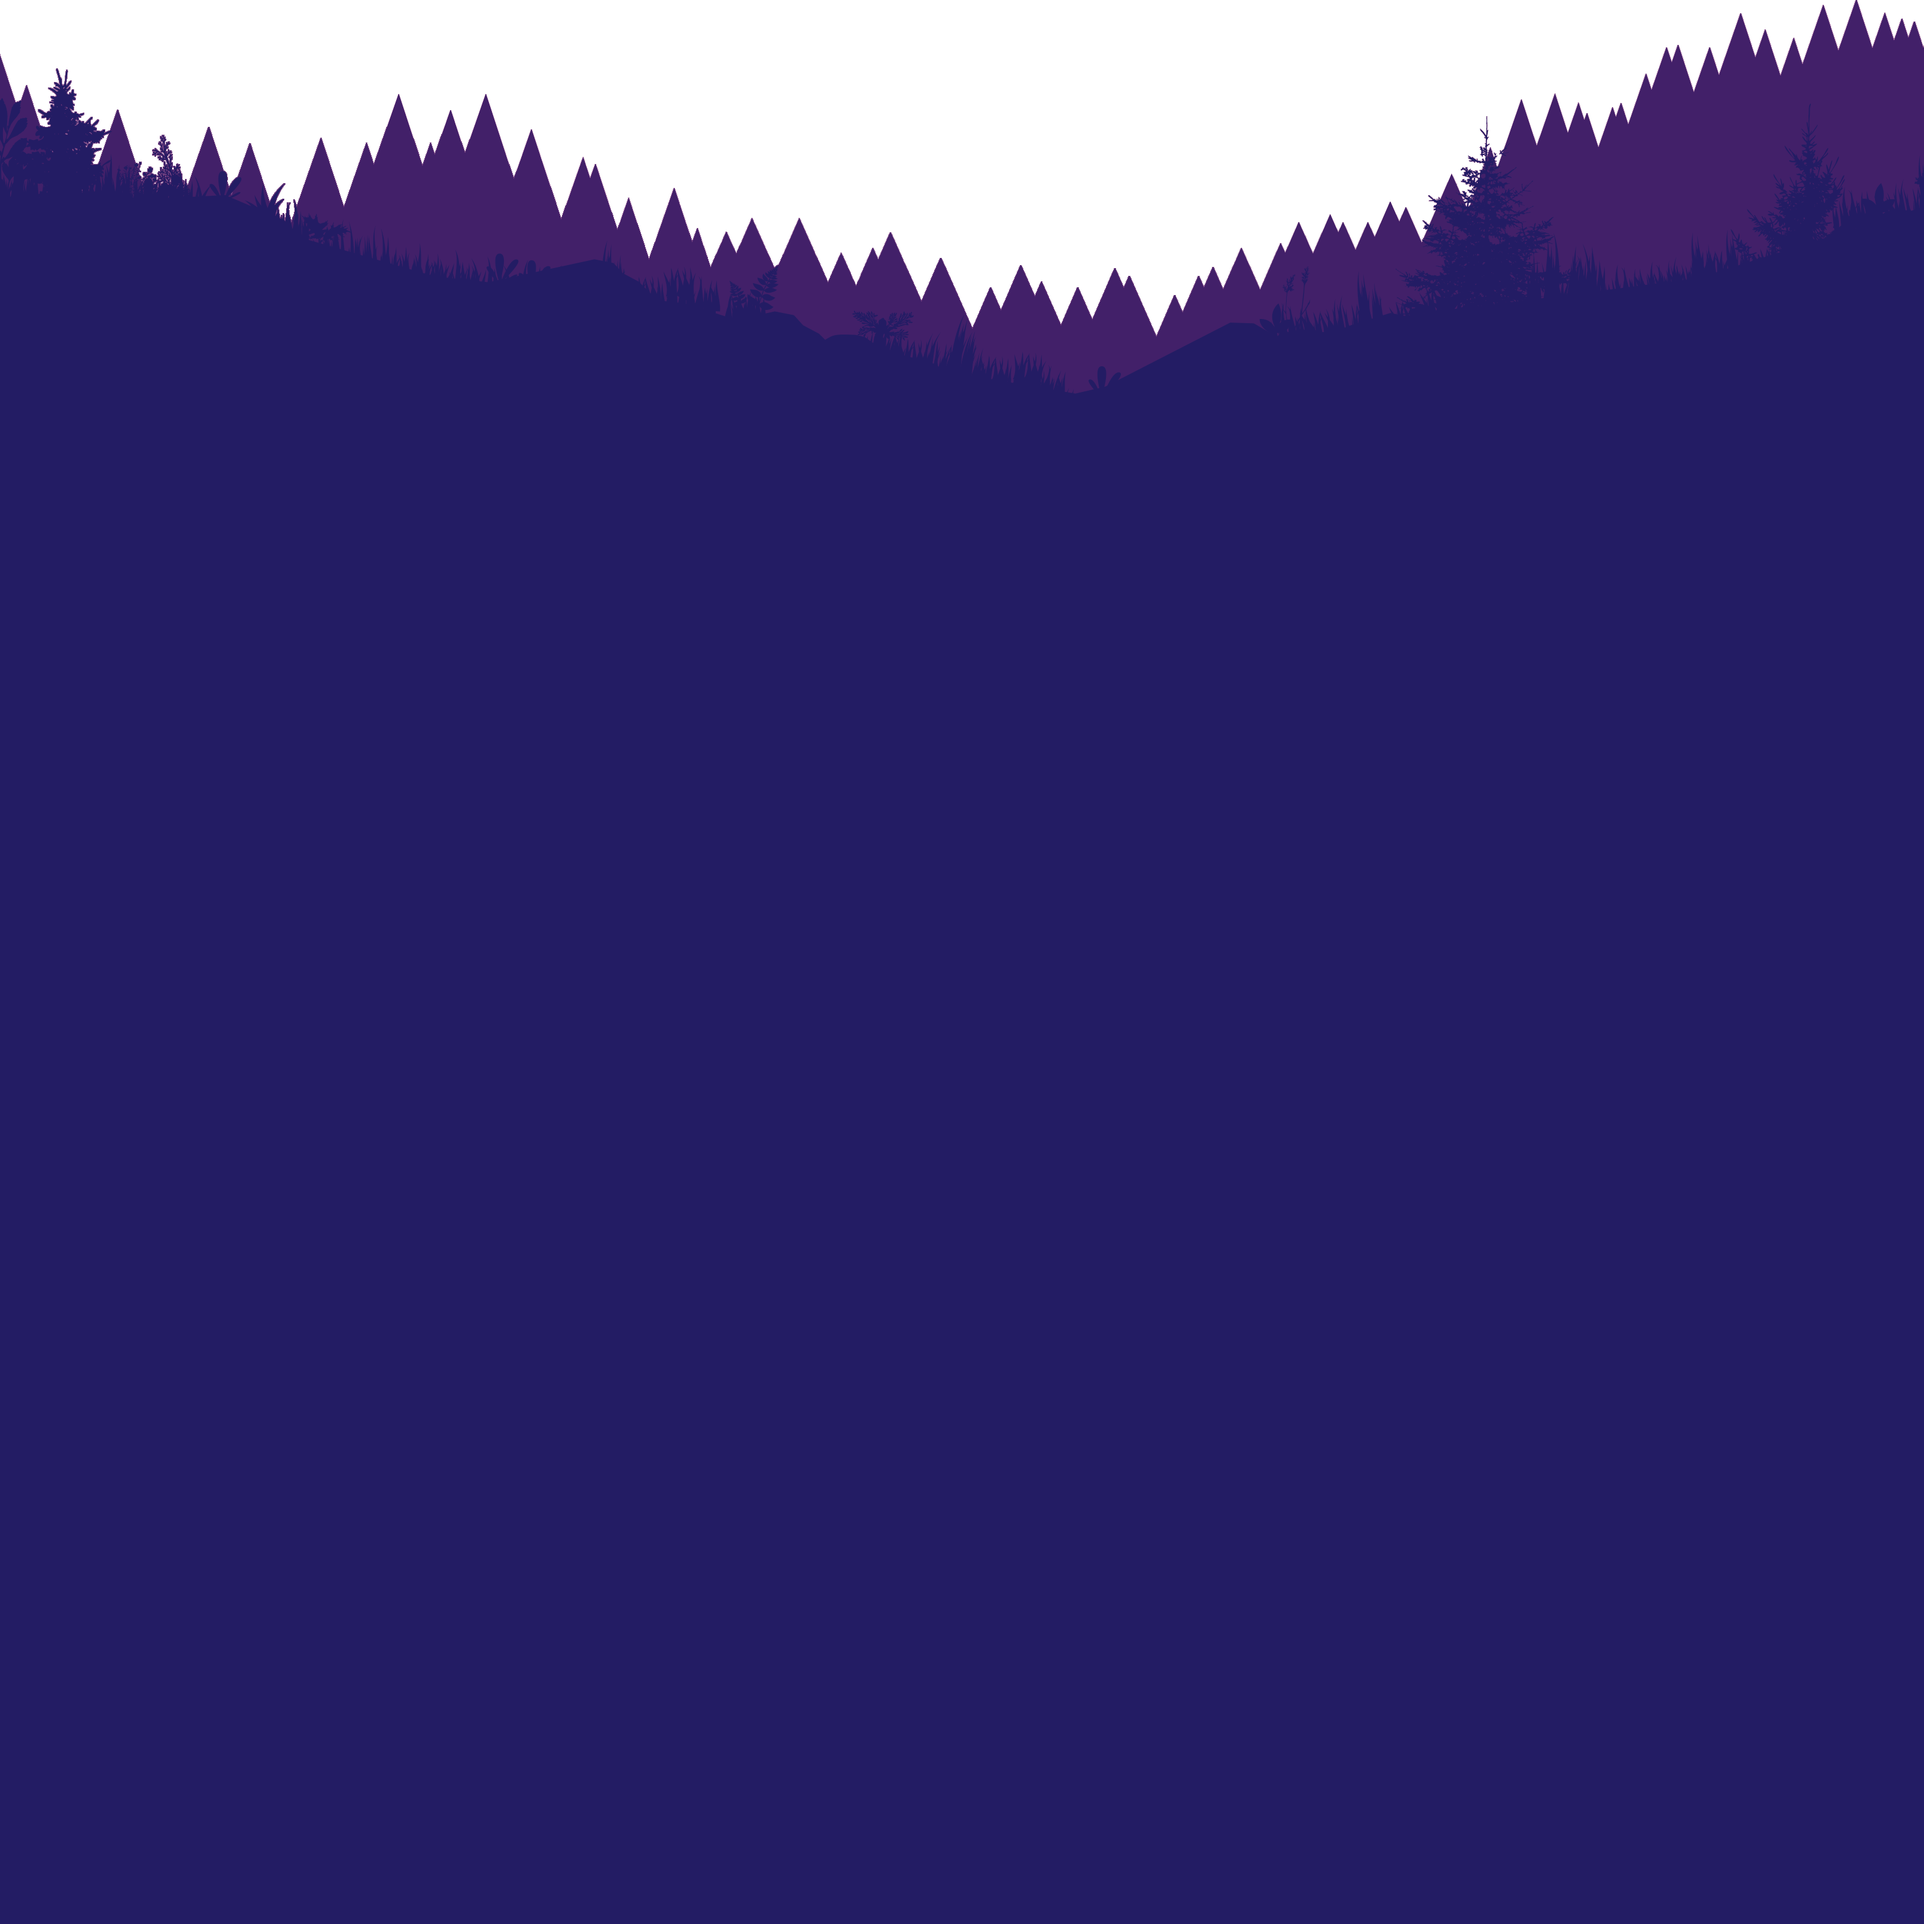
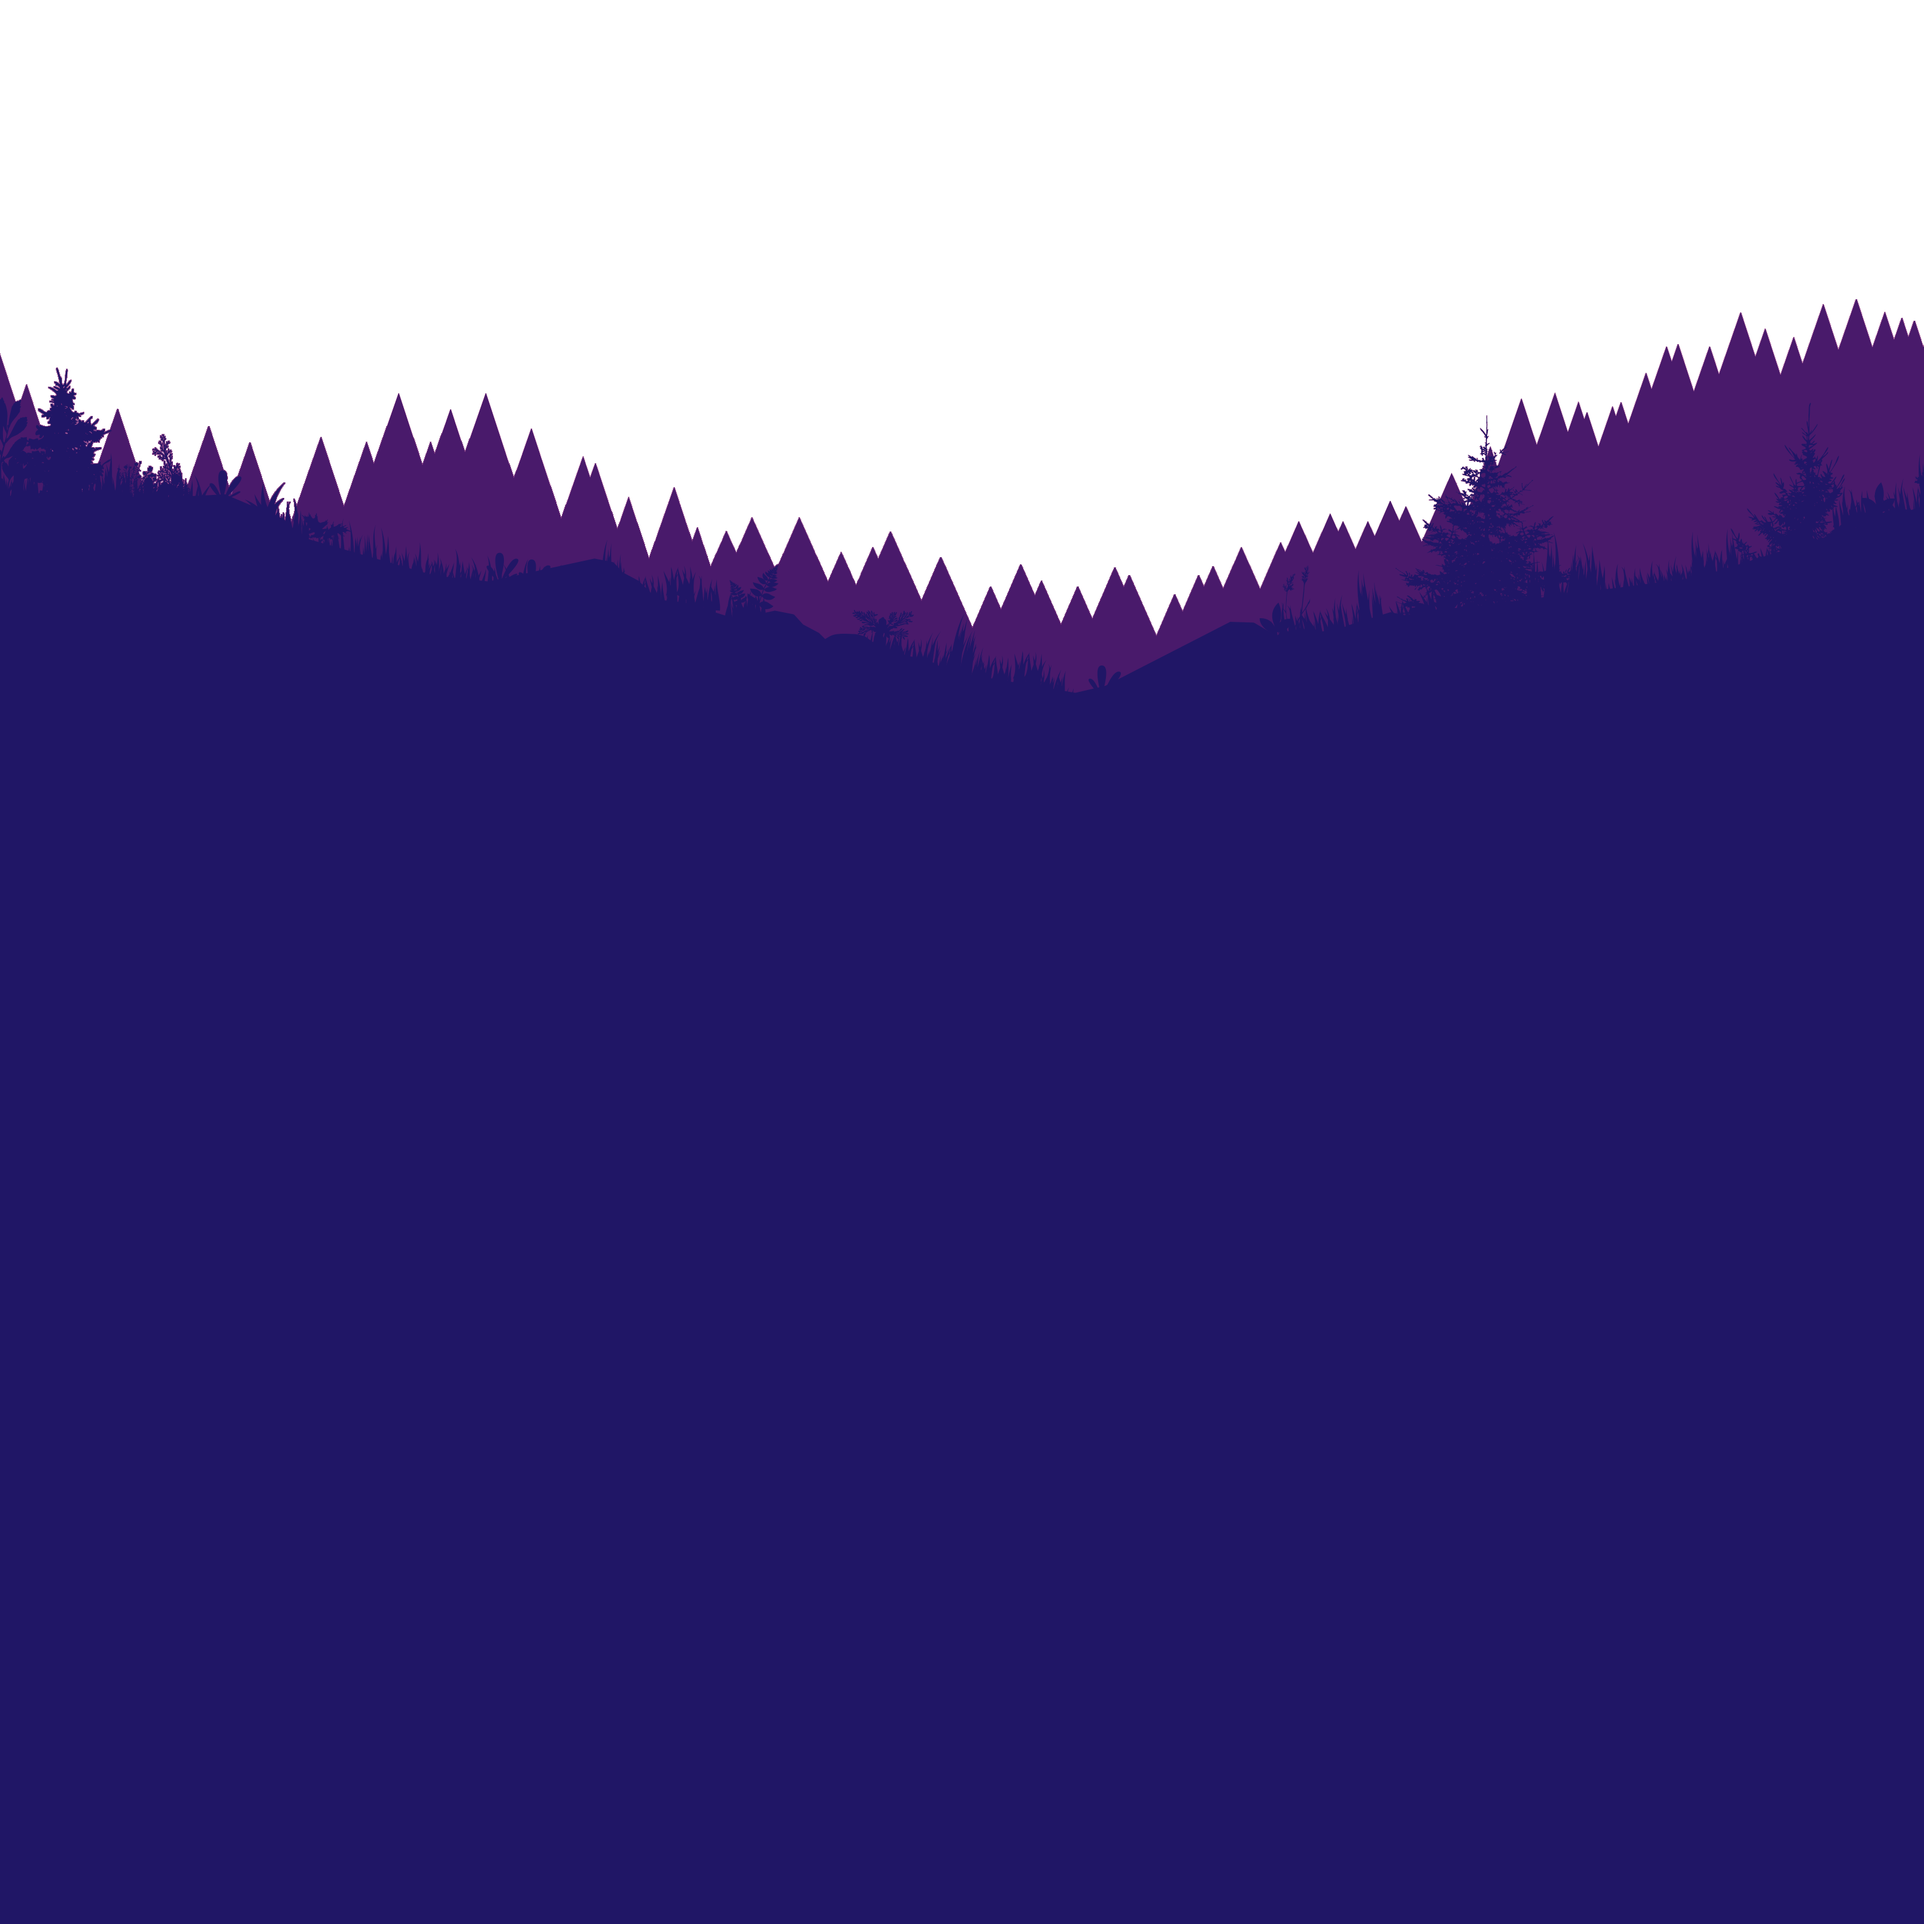
parallax no mobile configurado

Changed region(s): [[0.0, 0.0, 1.0, 0.3733]]

diff --git a/estilo/desktop.css b/estilo/desktop.css
@@ -2,7 +2,9 @@ html{
     scroll-behavior: smooth;
     padding: 0;
     margin: 0;
-    background-color: #231c64;
+    background-color: #201666;
+}
+body, html {
     overflow-x: hidden;
 }
 body{
@@ -21,7 +23,7 @@ header{
     width: 100%;
     display: flex;
     justify-content:flex-end;
-    margin-top: -1880px;
+    margin-top: -1607px;
 }
 ul{
     display: inline-flex;

diff --git a/estilo/background.css b/estilo/background.css
@@ -1,7 +1,8 @@
 #background{
     position: relative;
     width: 100%;
-    height: 200vh;
+    min-width: 1024px;
+    height: 1607px;
     z-index: -4;
 }
 #background img{
@@ -12,7 +13,7 @@
 }
 #layer1{
     z-index: -1;
-    margin-top: 1100px;
+    margin-top: 600px;
 }
 #layer2{
     z-index: -2;

diff --git a/estilo/mobile.css b/estilo/mobile.css
@@ -1,6 +1,9 @@
 main{
     width: 100%;
 }
+body, html {
+    overflow-x: hidden;
+}
 header{
     justify-content: center;
 }
